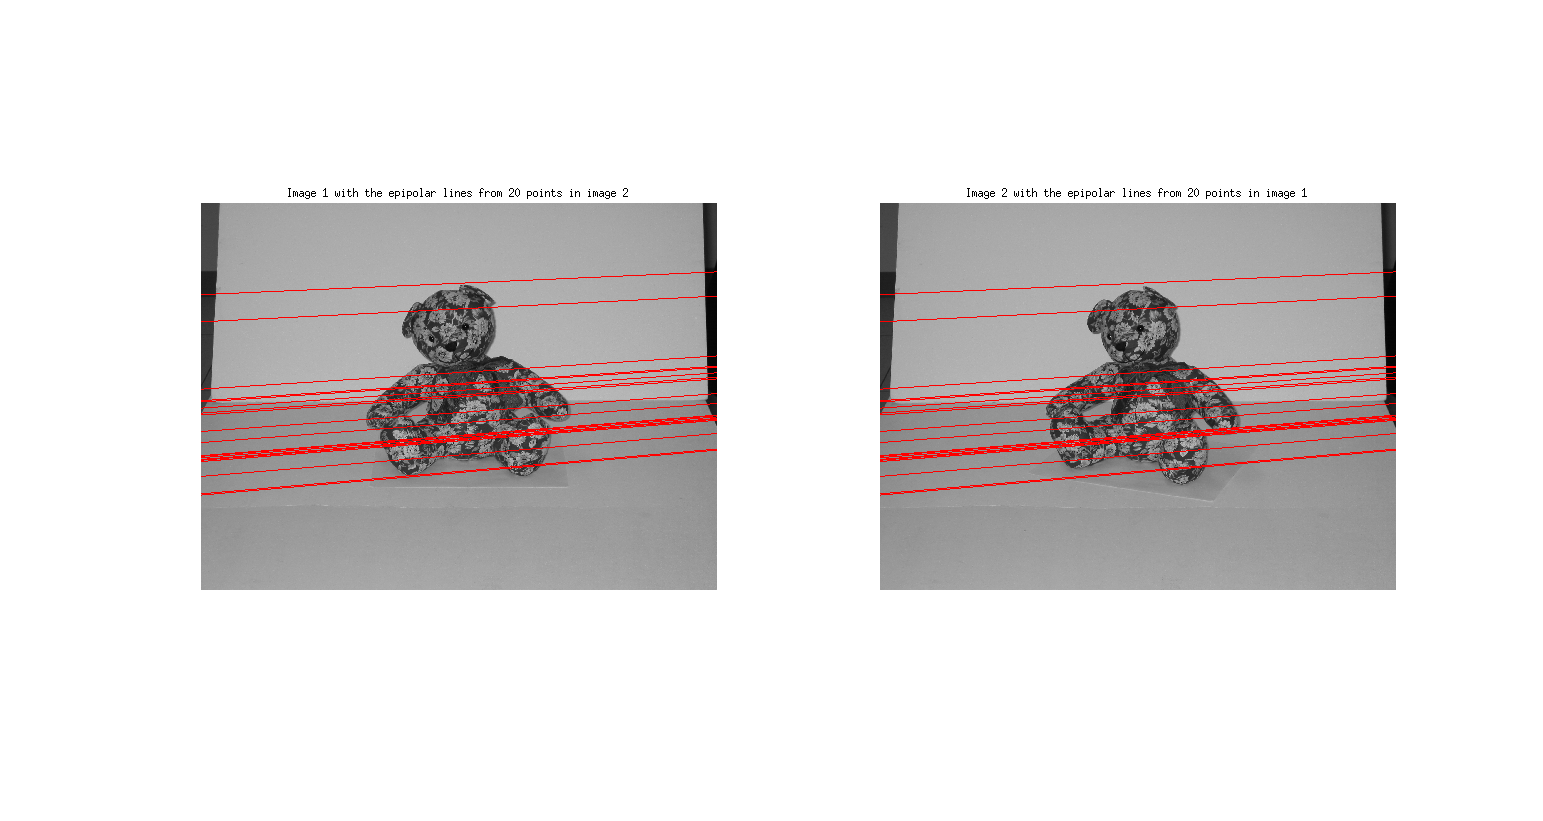
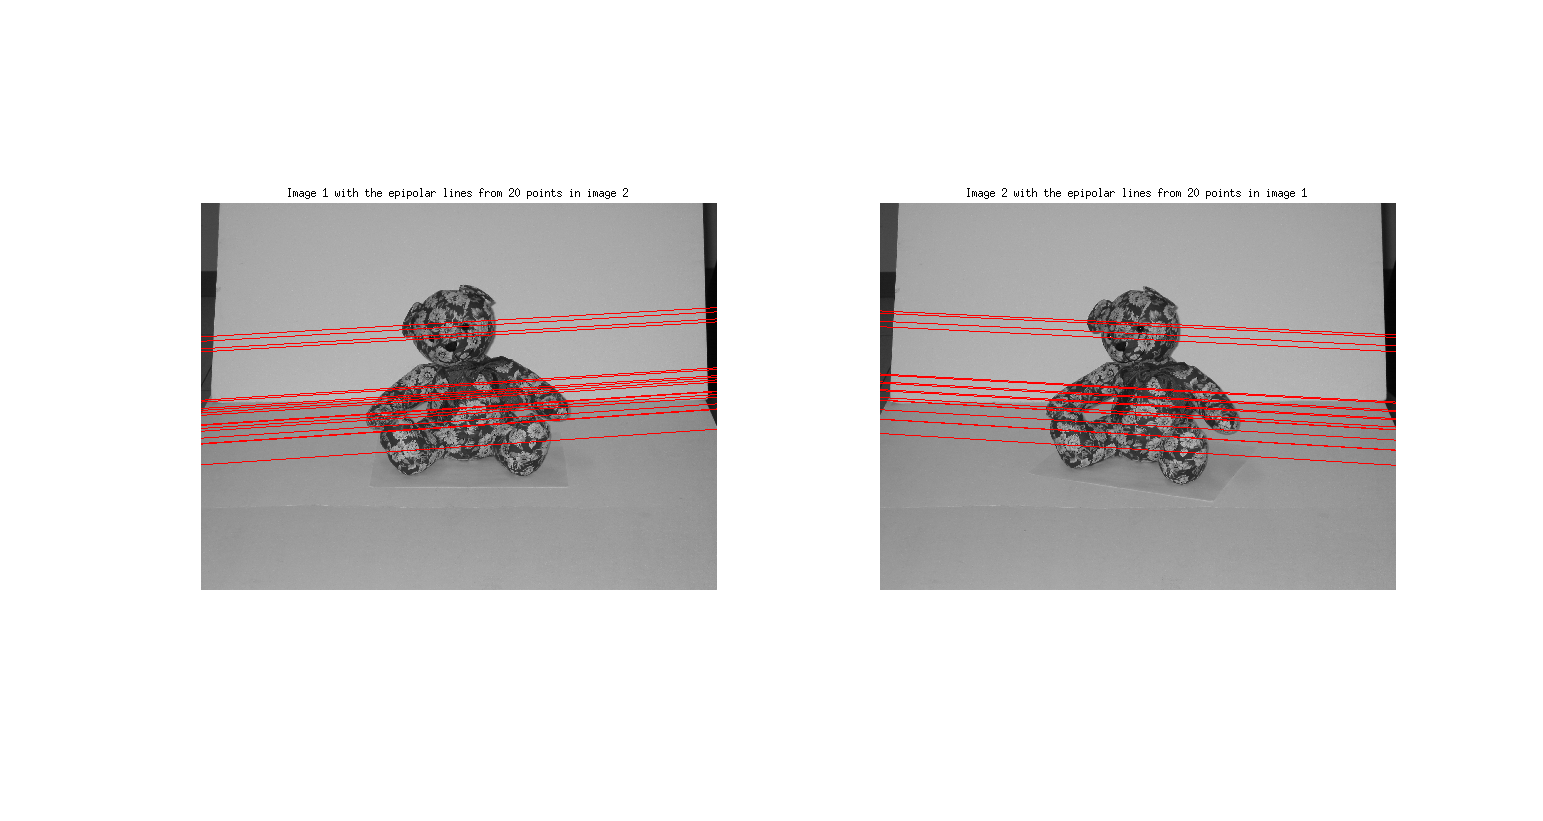
actually done, fo real yo

diff --git a/Assignment5/Fdemo.m b/Assignment5/Fdemo.m
@@ -4,19 +4,19 @@ function F = Fdemo()
 tic;
 % Read images
 disp('Reading images');
-%img1 = im2double(rgb2gray(imread('TeddyBearPNG/obj02_001.png')));
-%img2 = im2double(rgb2gray(imread('TeddyBearPNG/obj02_002.png')));
+img1 = im2double(rgb2gray(imread('TeddyBearPNG/obj02_001.png')));
+img2 = im2double(rgb2gray(imread('TeddyBearPNG/obj02_002.png')));
 
 % Read Features and Descriptors
-%[feat1,desc1,~,~] = loadFeatures('TeddyBearPNG/obj02_001.png.haraff.sift');
-%[feat2,desc2,~,~] = loadFeatures('TeddyBearPNG/obj02_002.png.haraff.sift');
+[feat1,desc1,~,~] = loadFeatures('TeddyBearPNG/obj02_001.png.haraff.sift');
+[feat2,desc2,~,~] = loadFeatures('TeddyBearPNG/obj02_002.png.haraff.sift');
 
- img1 = im2double(rgb2gray(imread('BoxPNG/left.png')));
- img2 = im2double(rgb2gray(imread('BoxPNG/right.png')));
+% img1 = im2double(rgb2gray(imread('BoxPNG/left.png')));
+% img2 = im2double(rgb2gray(imread('BoxPNG/right.png')));
 % 
  % Read Features and Descriptors
- [feat1,desc1,~,~] = loadFeatures('BoxPNG/left.png.haraff.sift');
- [feat2,desc2,~,~] = loadFeatures('BoxPNG/right.png.haraff.sift');
+% [feat1,desc1,~,~] = loadFeatures('BoxPNG/left.png.haraff.sift');
+% [feat2,desc2,~,~] = loadFeatures('BoxPNG/right.png.haraff.sift');
 
 % Match Descriptors
 disp('Matching Descriptors');
@@ -125,7 +125,7 @@ for i=1:pointpairs
     subplot(1,2,1);
     plot(-(epiL(1)*(1:size(img1,2))+epiL(3))./epiL(2), 'r')
     subplot(1,2,2);
-    plot(-(epiR(1)*(1:size(img2,2))+epiR(3))./epiL(2), 'r')
+    plot(-(epiR(1)*(1:size(img2,2))+epiR(3))./epiR(2), 'r')
 end
 
 
